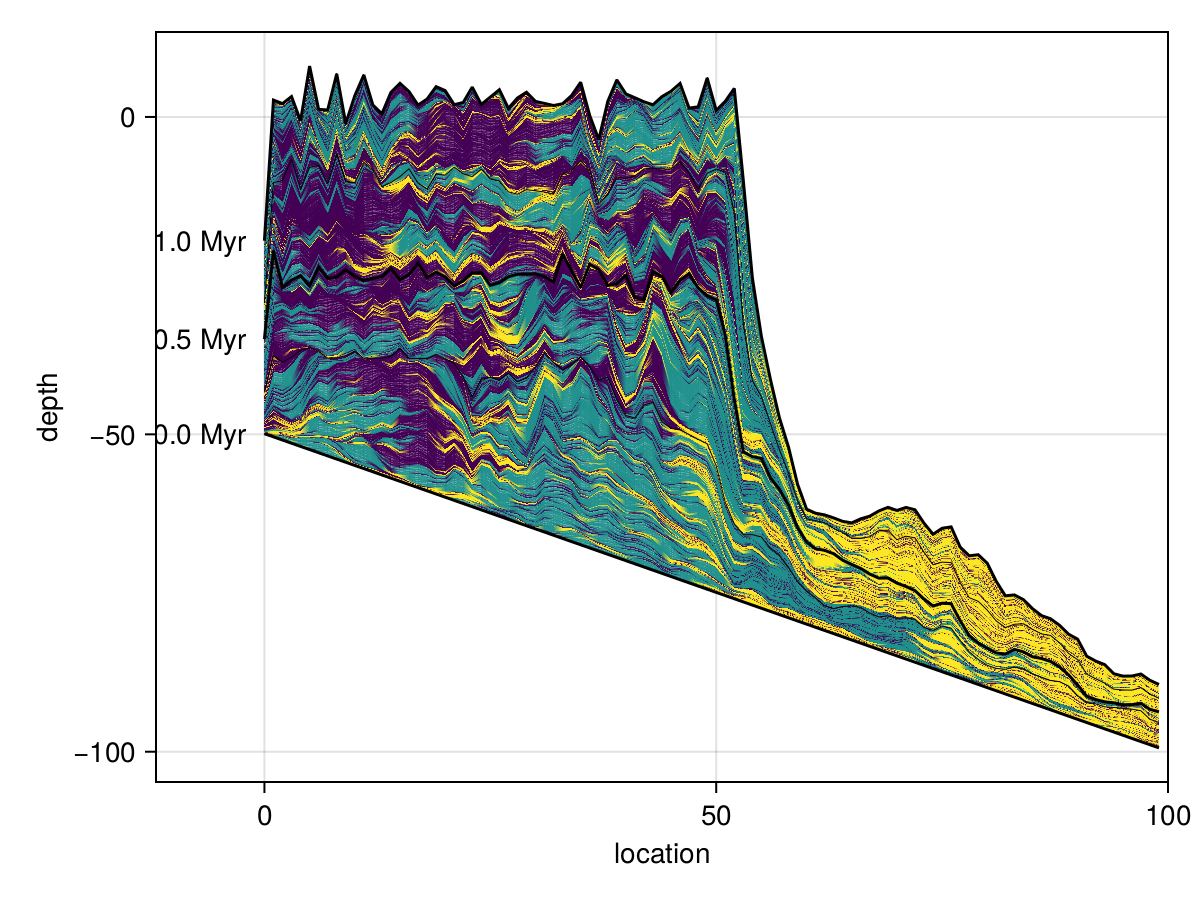
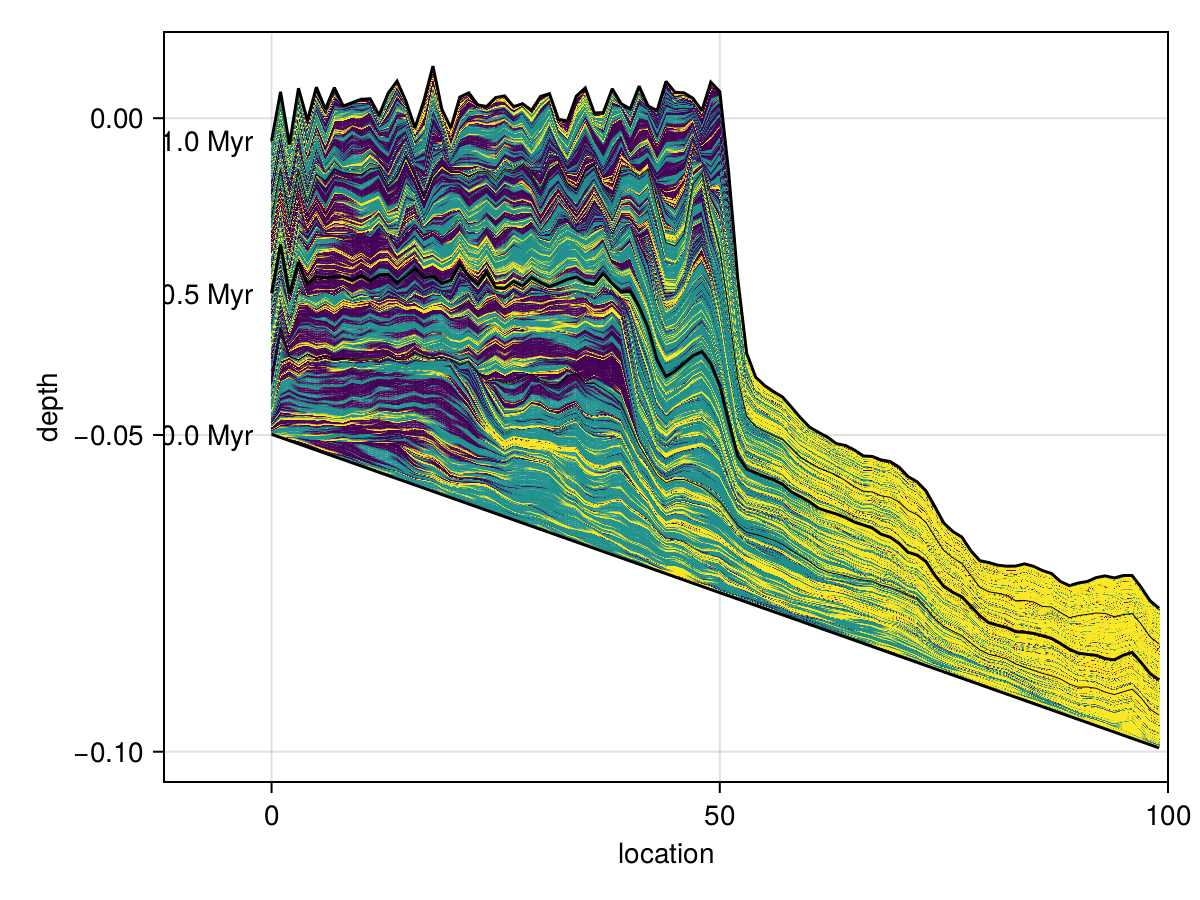
model with production+transport seems to be working

Changed region(s): [[0.0617, 0.0311, 0.9867, 0.8711], [0.4933, 0.8711, 0.6167, 0.9644], [0.2158, 0.8711, 0.2467, 0.9333]]

diff --git a/docs/src/submarine-transport.md b/docs/src/submarine-transport.md
@@ -17,23 +17,24 @@ module Script
 
   using HDF5
   using Printf
+  using ProgressBars
 
-  using .Iterators: partition
+  using .Iterators: partition, take, map
 
   const input = Input(
-    sea_level = t -> 4 * sin(2π * t / 0.2), 
-    subsidence_rate = 50.0,
-    initial_depth = p -> p.x / 2,
+    sea_level = t -> 0.004 * sin(2π * t / 0.2), 
+    subsidence_rate = 0.05,
+    initial_depth = p -> p.x / 2000.0,
     grid_size = (100, 50),
     boundary = Shelf,
     phys_scale = 1.0,
-    Δt = 0.0001,
-    time_steps = 100,
-    write_interval = 1,
+    Δt = 0.0002,
+    time_steps = 5000,
+    write_interval = 5,
     facies = [
-        Facies((4, 10), (6, 10), 500.0, 0.8, 300, 1.0, 1.0, 1.0),
-        Facies((4, 10), (6, 10), 400.0, 0.1, 300, 1.0, 1.0, 1.0),
-        Facies((4, 10), (6, 10), 100.0, 0.005, 300, 1.0, 1.0, 1.0)
+        Facies((4, 10), (6, 10), 0.500, 800.0, 300, 1.0, 1.0, 1.0),
+        Facies((4, 10), (6, 10), 0.400, 100.0, 300, 1.0, 1.0, 1.0),
+        Facies((4, 10), (6, 10), 0.100, 5.0, 300, 1.0, 1.0, 1.0)
     ],
 
     insolation = 2000.0,
@@ -43,7 +44,9 @@ module Script
     wave_shear_stress = nothing,
 
     g = 9.8,
-    transport_subsample = 1 
+    transport_subsample = 1,
+    transport_max_it = 100,
+    transport_step_size = 0.5
   )
 
   function make_box(input)
@@ -64,7 +67,7 @@ module Script
 
   function updater(input::Input)
     function (s, Δ)
-        s.height .+= (input.subsidence_rate .- sum(Δ.production; dims=3)) * input.Δt
+        s.height .+= (input.subsidence_rate .- sum(Δ.production; dims=1)[1,:,:]) * input.Δt
         s.time += input.Δt
     end
   end
@@ -75,25 +78,27 @@ module Script
     t = submarine_transport(input)
     u = updater(input)
 
-    Channel{NTuple{2,ProductFrame}}() do ch
+    Channel{ProductFrame}() do ch
       while true
-          Δ_orig = p(state)
-          Δ_trans = t(state, Δ_orig)
-          # Δ = t(state, p(state))
-          put!(ch, (Δ_orig, Δ_trans))
-          u(state, Δ_trans)
+          x = p(state)
+          @assert size(x.production)[1] == 3  "production size: $(size(x.production))"
+          Δ = t(state, x)
+          put!(ch, Δ)
+          u(state, Δ)
       end
     end
   end
 
   function stack_frames(fs::Vector{ProductFrame})  # -> Frame
-      Frame(sum(f.production for f in fs))
+      ProductFrame(sum(f.production for f in fs))
   end
 
   function main(input::Input, output::String)
       n_writes = input.time_steps ÷ input.write_interval
       x_axis, y_axis = axes(make_box(input))
       initial_height = initial_depth(input)
+
+      print("Running for $(input.time_steps) time steps and $(n_writes) writes")
 
       h5open(output, "w") do fid
           gid = create_group(fid, "input")
@@ -108,17 +113,13 @@ module Script
           attr["subsidence_rate"] = input.subsidence_rate
 
           n_facies = length(input.facies)
-          ds_orig = create_dataset(fid, "orig_sediment", datatype(Float64),
-              dataspace(input.grid_size..., n_facies, input.time_steps),
-              chunk=(input.grid_size..., n_facies, 1))
-          ds_trans = create_dataset(fid, "trans_sediment", datatype(Float64),
-              dataspace(input.grid_size..., n_facies, input.time_steps),
-              chunk=(input.grid_size..., n_facies, 1))
+          ds = create_dataset(fid, "sediment", datatype(Float64),
+              dataspace(n_facies, input.grid_size..., input.time_steps),
+              chunk=(n_facies, input.grid_size..., 1))
 
           results = map(stack_frames, partition(run(input), input.write_interval))
-          for (step, (f1, f2)) in enumerate(take(results, n_writes))
-              ds_orig[:, :, :, step] = f1.production
-              ds_trans[:,:,:, step] = f2.production
+          for (step, f) in ProgressBar(enumerate(take(results, n_writes)), total=n_writes)
+              ds[:, :, :, step] = f.production
           end
       end
   end
@@ -183,6 +184,10 @@ The sediment output will be stored in a buffer with fixed spatial resolution, ty
   # by setting this parameter to something >1 you can control how many particles
   # are created on each axis. So number of particles is grid width * height * transport_subsample^2.
   transport_subsample::Int
+  # stop transporting after <transport_max_it> steps
+  transport_max_it::Int
+  # step size in pixel units
+  transport_step_size::Float64
 end
 ```
 
@@ -457,6 +462,8 @@ function stress(input::Input, s)
   function (p::Particle)
     @assert !isnothing(τ_wave)
     z, ∇ = Transport.interpolate(input.boundary, box, s.height, p.position)
+    abs(∇) ≈ 0.0 && return zero(Vec2)
+
     α = atan(abs(∇))
     Ĝ = -∇ / abs(∇)
 
@@ -464,6 +471,7 @@ function stress(input::Input, s)
     D = input.facies[p.facies].grain_size
     g = input.g
     τ_grav = (Δρ * D * g * sin(α)) * Ĝ
+    @assert !isnan(τ_grav.x) "alpha = $(α) | G = $(Ĝ) | z = $(z) | grad = $(∇)"
 
     return τ_grav # + τ_wave(z)
   end
@@ -478,10 +486,10 @@ function submarine_transport(input::Input)
     y=input.grid_size[2] * input.phys_scale), input.phys_scale)
   function (s, Δ::ProductFrame) # -> ProductFrame
     output = zeros(Float64, size(Δ.production)...)
-    transport = Transport.transport(input.boundary, box, stress(input, s))
+    transport = Transport.transport(input.boundary, box, stress(input, s), input.transport_max_it, input.transport_step_size)
     deposit = Transport.deposit(input.boundary, box, output)
 
-    for p in particles(input, Δ)
+    Threads.foreach(particles(input, Δ)) do p
       p |> transport |> deposit
     end
 
@@ -515,9 +523,25 @@ using .Iterators: drop, peel, partition, map, take, product
 <<cat-update>>
 <<cat-propagator>>
 function production_propagator(input::Input)
-    <<ca-prod-init-propagator>>
+    n_facies = length(input.facies)
+    ca_init = rand(0:n_facies, input.grid_size...)
+    ca = drop(run_ca(Periodic{2}, input.facies, ca_init, 3), 20)
+
+    function water_depth(s)
+        s.height .- input.sea_level(s.time)
+    end
     function (s)  # -> Frame
-        <<ca-prod-propagate>>
+        result = zeros(Float64, n_facies, input.grid_size...)
+        facies_map, ca = peel(ca)
+        w = water_depth(s)
+        Threads.@threads for idx in CartesianIndices(facies_map)
+            f = facies_map[idx]
+            if f == 0
+                continue
+            end
+            result[f, Tuple(idx)...] = production_rate(input.insolation, input.facies[f], w[idx])
+        end
+        return ProductFrame(result)
     end
 end
 

diff --git a/docs/src/transport.md b/docs/src/transport.md
@@ -26,6 +26,7 @@ Base.:/(a::Vec2, b::Float64) = (x=a.x/b, y=a.y/b)
 Base.:*(a::Float64, b::Vec2) = b*a
 Base.:-(a::Vec2, b::Vec2) = (x=a.x-b.x, y=a.y-b.y)
 Base.:-(a::Vec2) = (x=-a.x, y=-a.y)
+Base.zero(::Type{Vec2}) = (x=0.0, y=0.0)
 
 end
 ```
@@ -89,7 +90,7 @@ function offset(::Type{Shelf}, box::Box, a::Vec2, Δa::Vec2)
     if b.x < 0.0 || b.x > box.phys_size.x
         nothing
     else
-        (x=b.x, y=b.y % box.phys_size.y)
+        (x=b.x, y=mod(b.y, box.phys_size.y))
     end
 end
 ```
@@ -209,20 +210,20 @@ end
 ## Transport
 
 ``` {.julia #particle-transport}
-function transport(::Type{BT}, box::Box, stress) where {BT <: Boundary{2}}
+function transport(::Type{BT}, box::Box, stress, maxit, step) where {BT <: Boundary{2}}
     function (p::Particle{P}) where P
         if p.position ∉ box
             return nothing
         end
 
-        while true
+        for it in 1:maxit
             @assert (p.position ∈ box) "$(p) in box"
             τ = stress(p)
             if abs(τ) < p.critical_stress
                 return p
             end
-            Δ = τ * (box.phys_scale / abs(τ))
-            @assert (abs(Δ) ≈ box.phys_scale) "pos: $(p.position) stress: $(τ) Delta: $(Δ)"
+            Δ = τ * (box.phys_scale * step / abs(τ))
+            @assert (abs(Δ) ≈ box.phys_scale * step) "pos: $(p.position) stress: $(τ) Delta: $(Δ)"
             next_position = offset(BT, box, p.position, Δ)
             if next_position === nothing
                 return nothing
@@ -230,6 +231,8 @@ function transport(::Type{BT}, box::Box, stress) where {BT <: Boundary{2}}
                 p.position = next_position
             end
         end
+
+        return p
     end
 end
 ```

diff --git a/docs/src/ca-with-production.md b/docs/src/ca-with-production.md
@@ -161,7 +161,7 @@ n_facies = length(input.facies)
 ca_init = rand(0:n_facies, input.grid_size...)
 ca = drop(run_ca(Periodic{2}, input.facies, ca_init, 3), 20)
 
-function water_depth(s::State)
+function water_depth(s)
     s.height .- input.sea_level(s.time)
 end
 ```
@@ -169,7 +169,7 @@ end
 Now, to generate a production from a given state, we advance the CA by one step and compute the production accordingly.
 
 ``` {.julia #ca-prod-propagate}
-result = zeros(Float64, input.grid_size..., n_facies)
+result = zeros(Float64, n_facies, input.grid_size...)
 facies_map, ca = peel(ca)
 w = water_depth(s)
 Threads.@threads for idx in CartesianIndices(facies_map)
@@ -177,9 +177,9 @@ Threads.@threads for idx in CartesianIndices(facies_map)
     if f == 0
         continue
     end
-    result[Tuple(idx)..., f] = production_rate(input.insolation, input.facies[f], w[idx])
+    result[f, Tuple(idx)...] = production_rate(input.insolation, input.facies[f], w[idx])
 end
-return Frame(result)
+return ProductFrame(result)
 ```
 
 ## Updater
